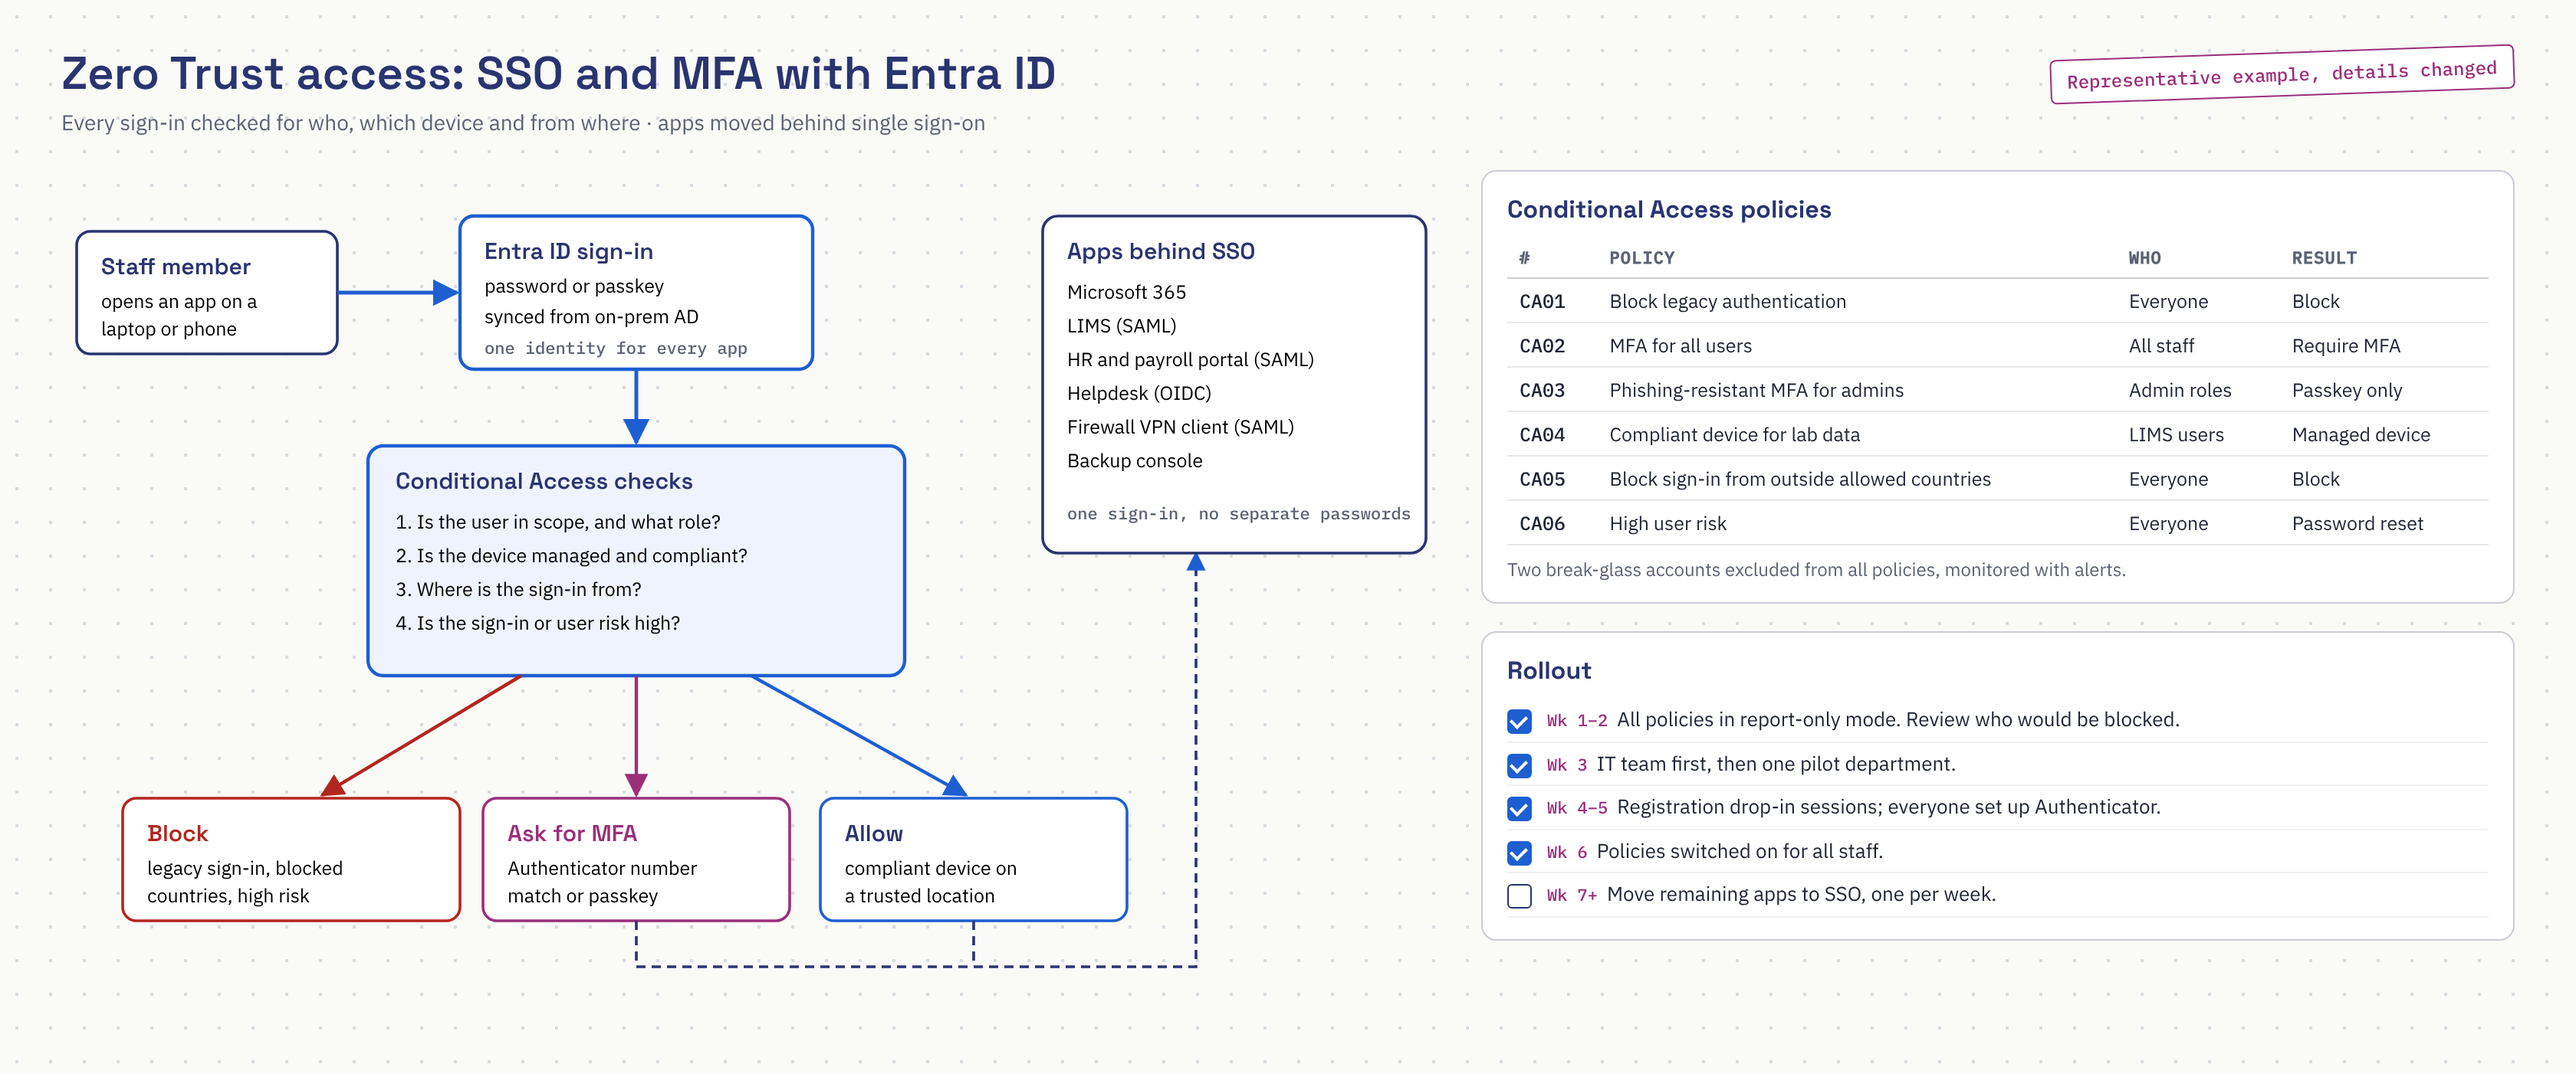
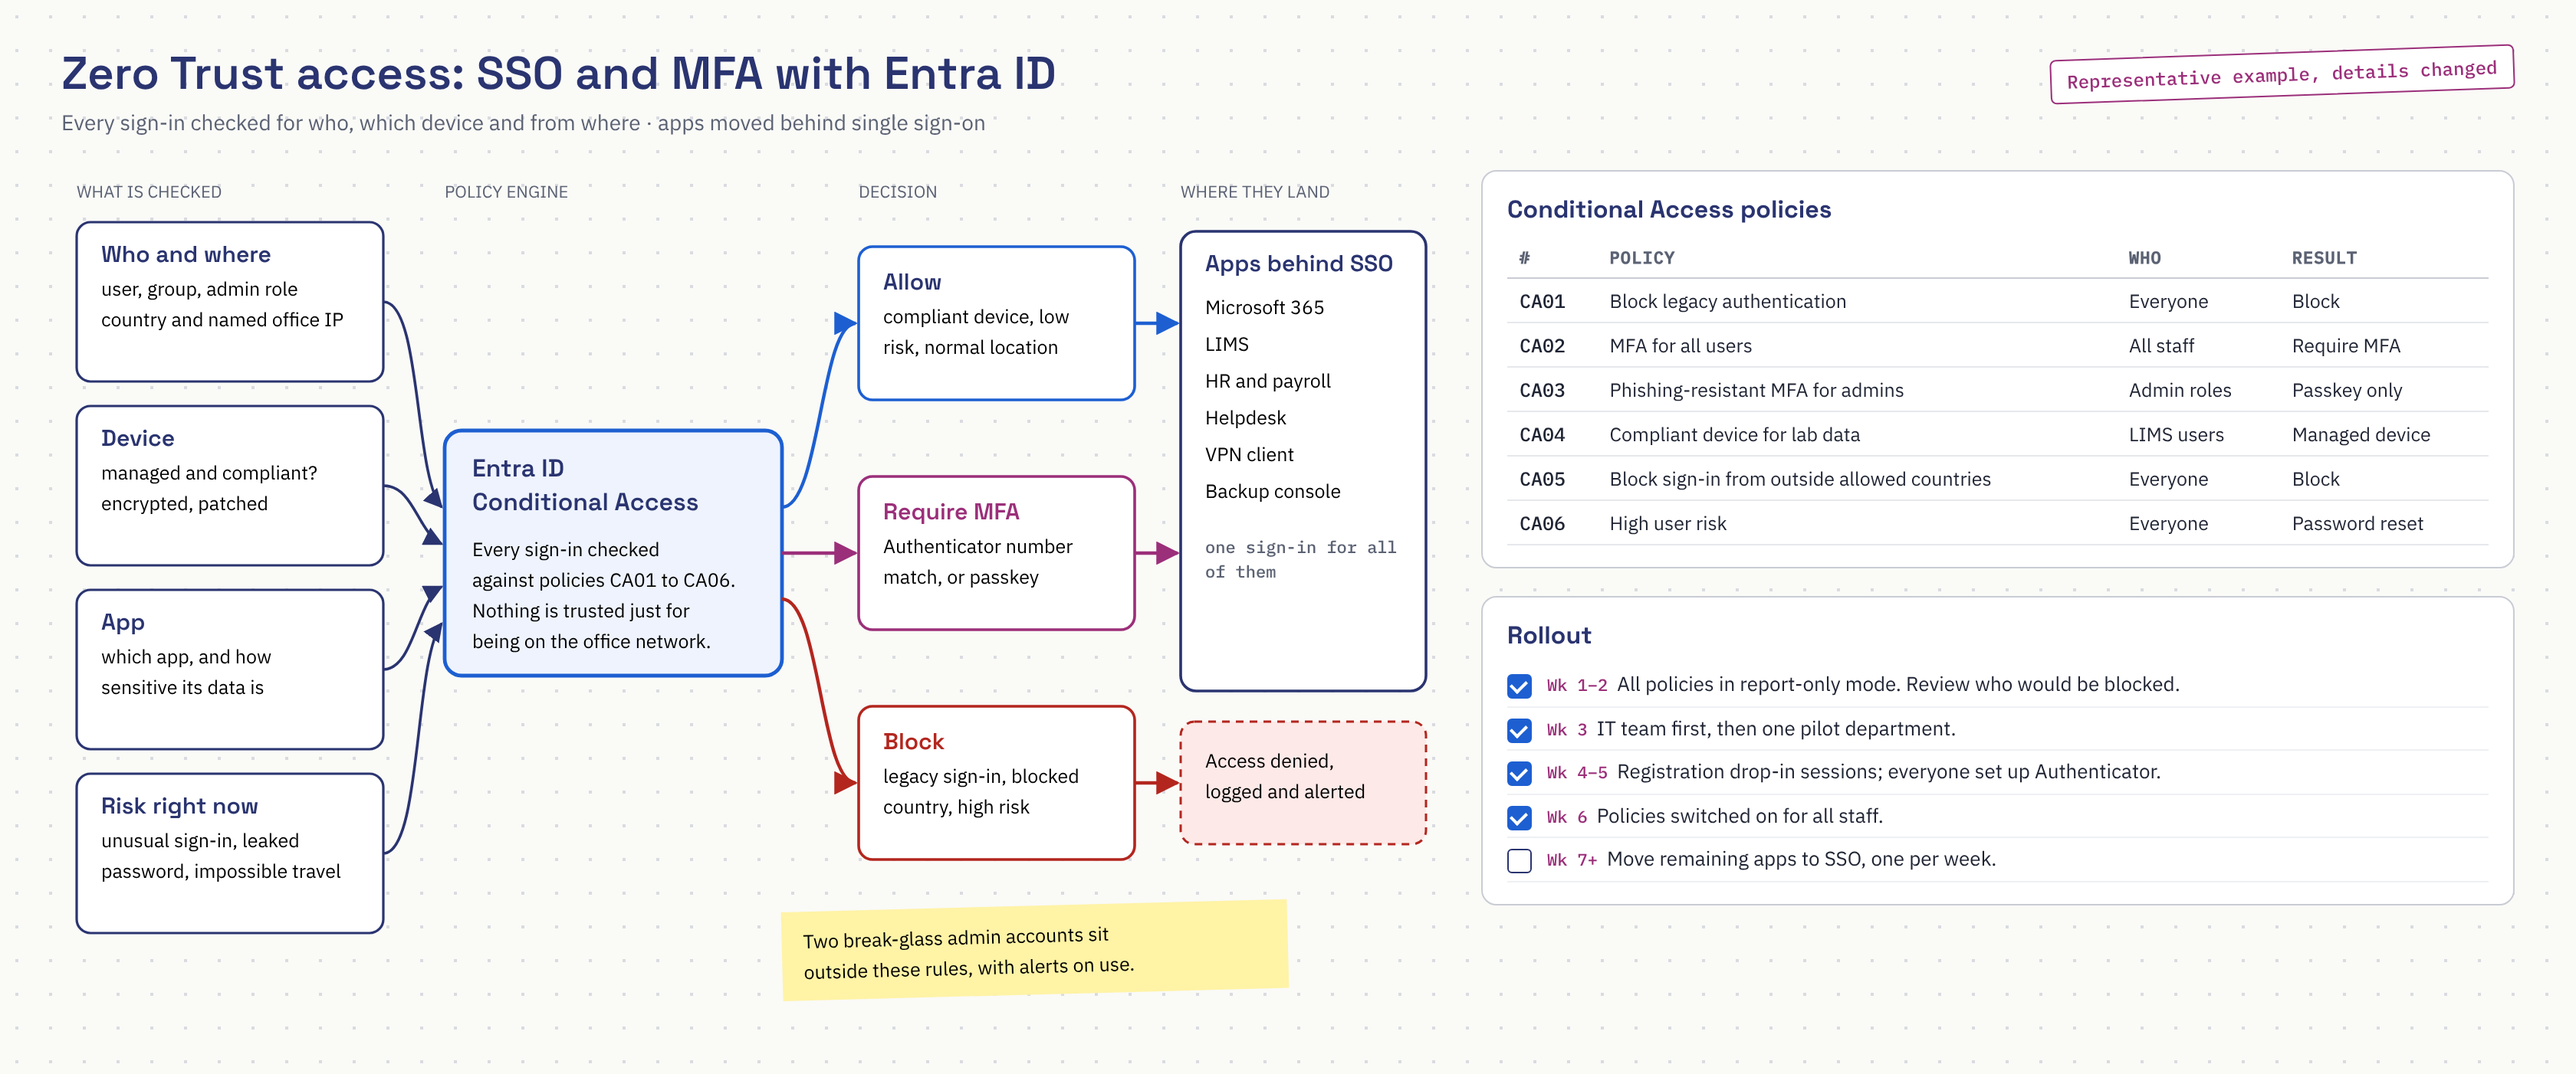
Confirm project results, fix migration timeline, redraw Entra diagram
- Ricardo confirmed the five estimated results, so the estimate labels are removed
- Azure: designed and built
- M365 sample now shows a few weeks of planning and a one-week cutover
- New Zero Trust sample: signals, Conditional Access, allow / MFA / block, apps
- Removed tech tags that came from the samples rather than from Ricardo

Claude-Session: https://claude.ai/code/session_01NrA2BbBdHrC1kYL9xiySs2

diff --git a/src/content/projects/entra-identity.md b/src/content/projects/entra-identity.md
@@ -5,15 +5,14 @@ where: Scientific Research Council
 summary: "I implemented Zero Trust access with Microsoft Entra ID: identity and access management, single sign-on, and MFA."
 tech:
   - Microsoft Entra ID
-  - Conditional Access
   - SSO
   - MFA
 artifact: ../../assets/artifacts/06-entra-sso-mfa.png
 artifactKind: Sign-in flow
-artifactAlt: "Sample sign-in flow: Entra ID sign-in, Conditional Access checks, then block, ask for MFA, or allow into apps behind single sign-on, with a policy table."
+artifactAlt: "Sample Zero Trust flow: who, device, app and risk signals feed Entra ID Conditional Access, which allows, requires MFA, or blocks, with allowed users landing in apps behind single sign-on."
 problem: "[PLACEHOLDER] What was wrong before you started? One or two sentences."
 action: "I implemented Zero Trust access with Microsoft Entra ID, covering identity and access management, single sign-on, and MFA."
-result: "[ESTIMATE: confirm] MFA enforced on all staff accounts and approximately 10 apps moved to single sign-on."
+result: "MFA enforced on all staff accounts and approximately 10 apps moved to single sign-on."
 featured: true
 draft: false
 order: 6

diff --git a/src/content/projects/azure-environment.md b/src/content/projects/azure-environment.md
@@ -2,17 +2,15 @@
 title: Azure cloud environment
 tag: Cloud
 where: Scientific Research Council
-summary: "I worked on the organization's Azure cloud environment."
+summary: "I designed and built the organization's Azure cloud environment."
 tech:
   - Microsoft Azure
-  - Site-to-site VPN
-  - Entra ID
 artifact: ../../assets/artifacts/04-azure-environment.png
 artifactKind: Architecture diagram
 artifactAlt: "Sample Azure landing zone: management groups and subscriptions on the left, a hub network joined to the office by VPN with three spoke networks on the right."
 problem: "[PLACEHOLDER] What was wrong before you started? One or two sentences."
-action: "I [PLACEHOLDER: designed, built, or both] the organization's Azure cloud environment."
-result: "[ESTIMATE: confirm] Approximately 4 services moved to Azure, retiring approximately 2 ageing on-site servers."
+action: "I designed and built the organization's Azure cloud environment."
+result: "Approximately 4 services moved to Azure, retiring approximately 2 ageing on-site servers."
 featured: true
 draft: false
 order: 4

diff --git a/src/content/projects/m365-migration.md b/src/content/projects/m365-migration.md
@@ -6,10 +6,9 @@ summary: "I led the migration from Exchange to Microsoft 365. Email downtime dro
 tech:
   - Microsoft 365
   - Exchange
-  - Entra Connect
 artifact: ../../assets/artifacts/08-m365-migration.png
 artifactKind: Migration plan
-artifactAlt: "Sample ten-week migration timeline: assess, prepare, pilot, three batches, mail flow cutover, then retiring Exchange."
+artifactAlt: "Sample migration timeline: a few weeks of planning and a pilot, then a one-week cutover with three batches, the mail flow switch, and follow-up support."
 problem: "[PLACEHOLDER] What was wrong before you started? One or two sentences."
 action: "I led the migration from Exchange to Microsoft 365 and coordinated vendors, service providers, and internal teams through the rollout."
 result: "Approximately 90% less email downtime."

diff --git a/src/content/projects/ansible-compliance.md b/src/content/projects/ansible-compliance.md
@@ -12,7 +12,7 @@ artifactKind: Playbook and report
 artifactAlt: "Sample Ansible playbook excerpt that audits desktop controls, next to an audit summary table and a list of software installed by role."
 problem: "[PLACEHOLDER] What was wrong before you started? One or two sentences."
 action: "I wrote Ansible playbooks that audit systems against the organization's PCI DSS and desktop control requirements, and playbooks that install software on systems based on business process."
-result: "[ESTIMATE: confirm] Compliance checks cut from approximately 2 days of manual work to approximately 1 hour."
+result: "Compliance checks cut from approximately 2 days of manual work to approximately 1 hour."
 featured: true
 draft: false
 order: 3

diff --git a/src/content/projects/lims.md b/src/content/projects/lims.md
@@ -12,7 +12,7 @@ artifactKind: User story map
 artifactAlt: "Sample user story map for a lab system: six workflow steps from receiving a sample to reporting, with user stories split into two releases."
 problem: "[PLACEHOLDER] What was wrong before you started? One or two sentences."
 action: "I gathered the requirements for a Laboratory Information Management System, mapped the user stories in Miro, ran the vendor bidding process, and oversaw development and code reviews."
-result: "[ESTIMATE: confirm] Approximately 40% less time spent on manual sample tracking and reporting."
+result: "Approximately 40% less time spent on manual sample tracking and reporting."
 featured: true
 draft: false
 order: 5

diff --git a/src/content/projects/backup-infrastructure.md b/src/content/projects/backup-infrastructure.md
@@ -11,7 +11,7 @@ artifactKind: Design diagram
 artifactAlt: "Sample 3-2-1 backup design: servers and Microsoft 365 back up to one Synology NAS, which replicates to a second NAS and an encrypted cloud copy."
 problem: "[PLACEHOLDER] What was wrong before you started? One or two sentences."
 action: "I designed the backup infrastructure on Synology NAS."
-result: "[ESTIMATE: confirm] Restore time for a key server cut from approximately 1 day to approximately 2 hours."
+result: "Restore time for a key server cut from approximately 1 day to approximately 2 hours."
 featured: true
 draft: false
 order: 2
